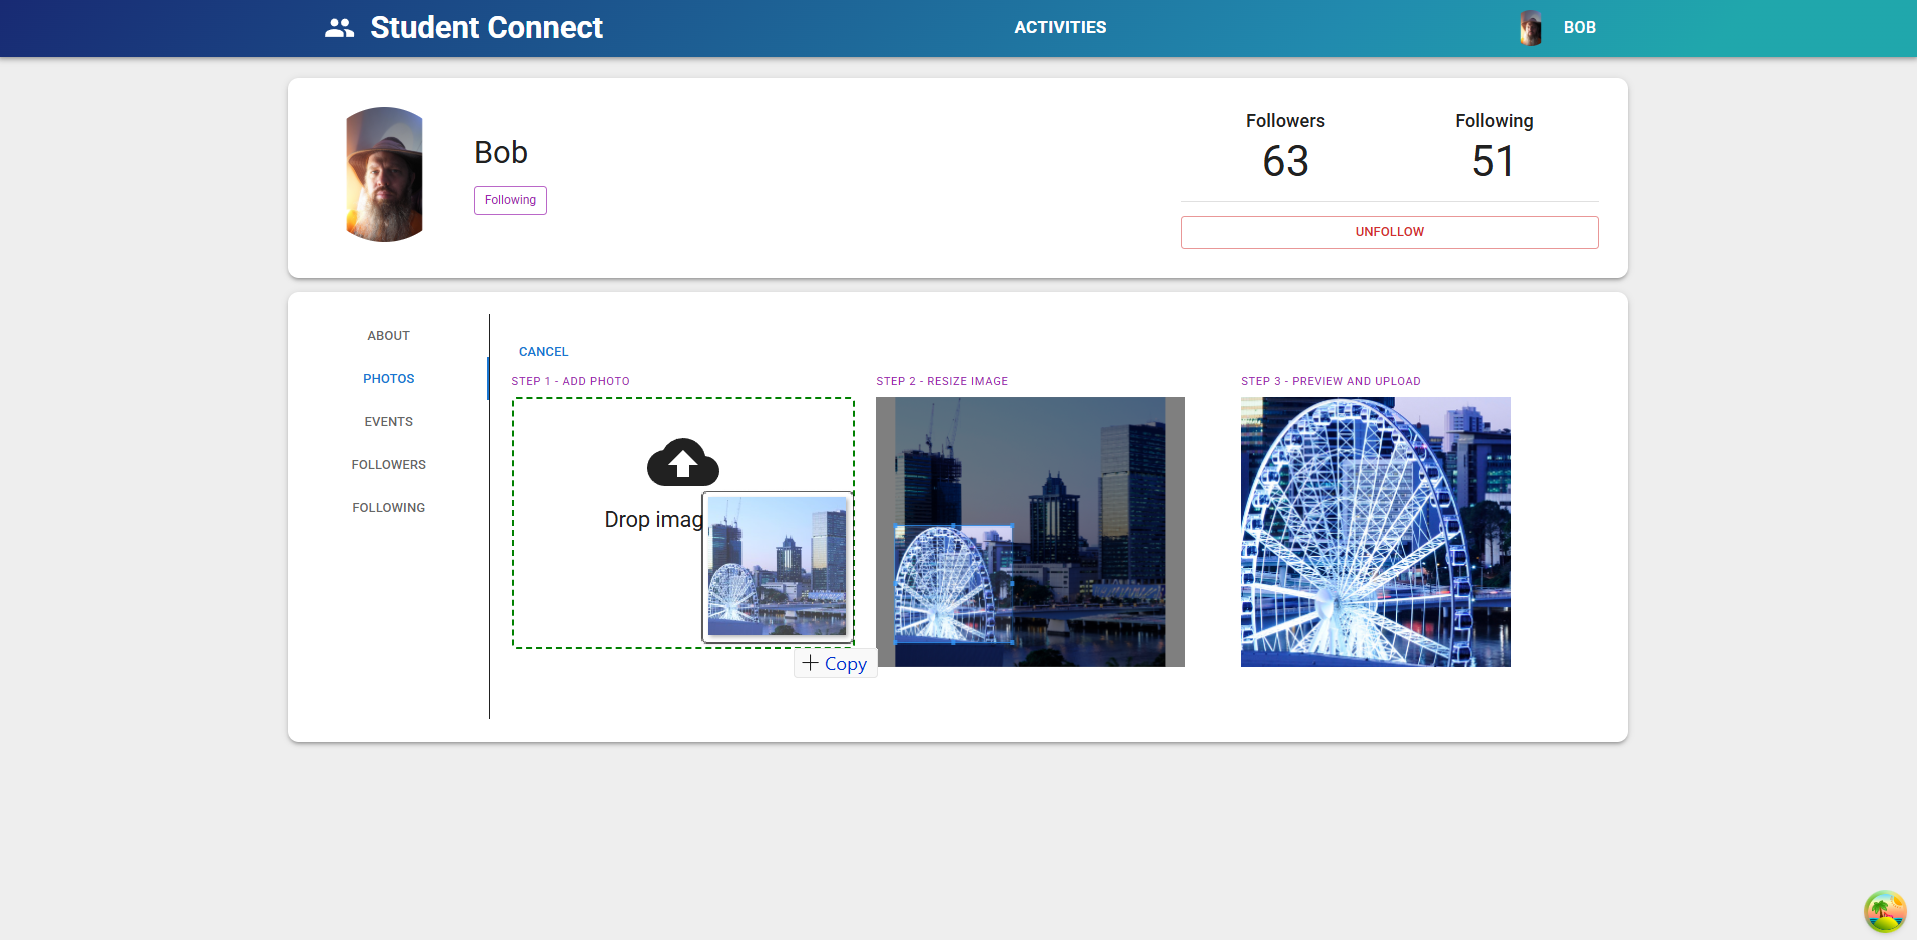
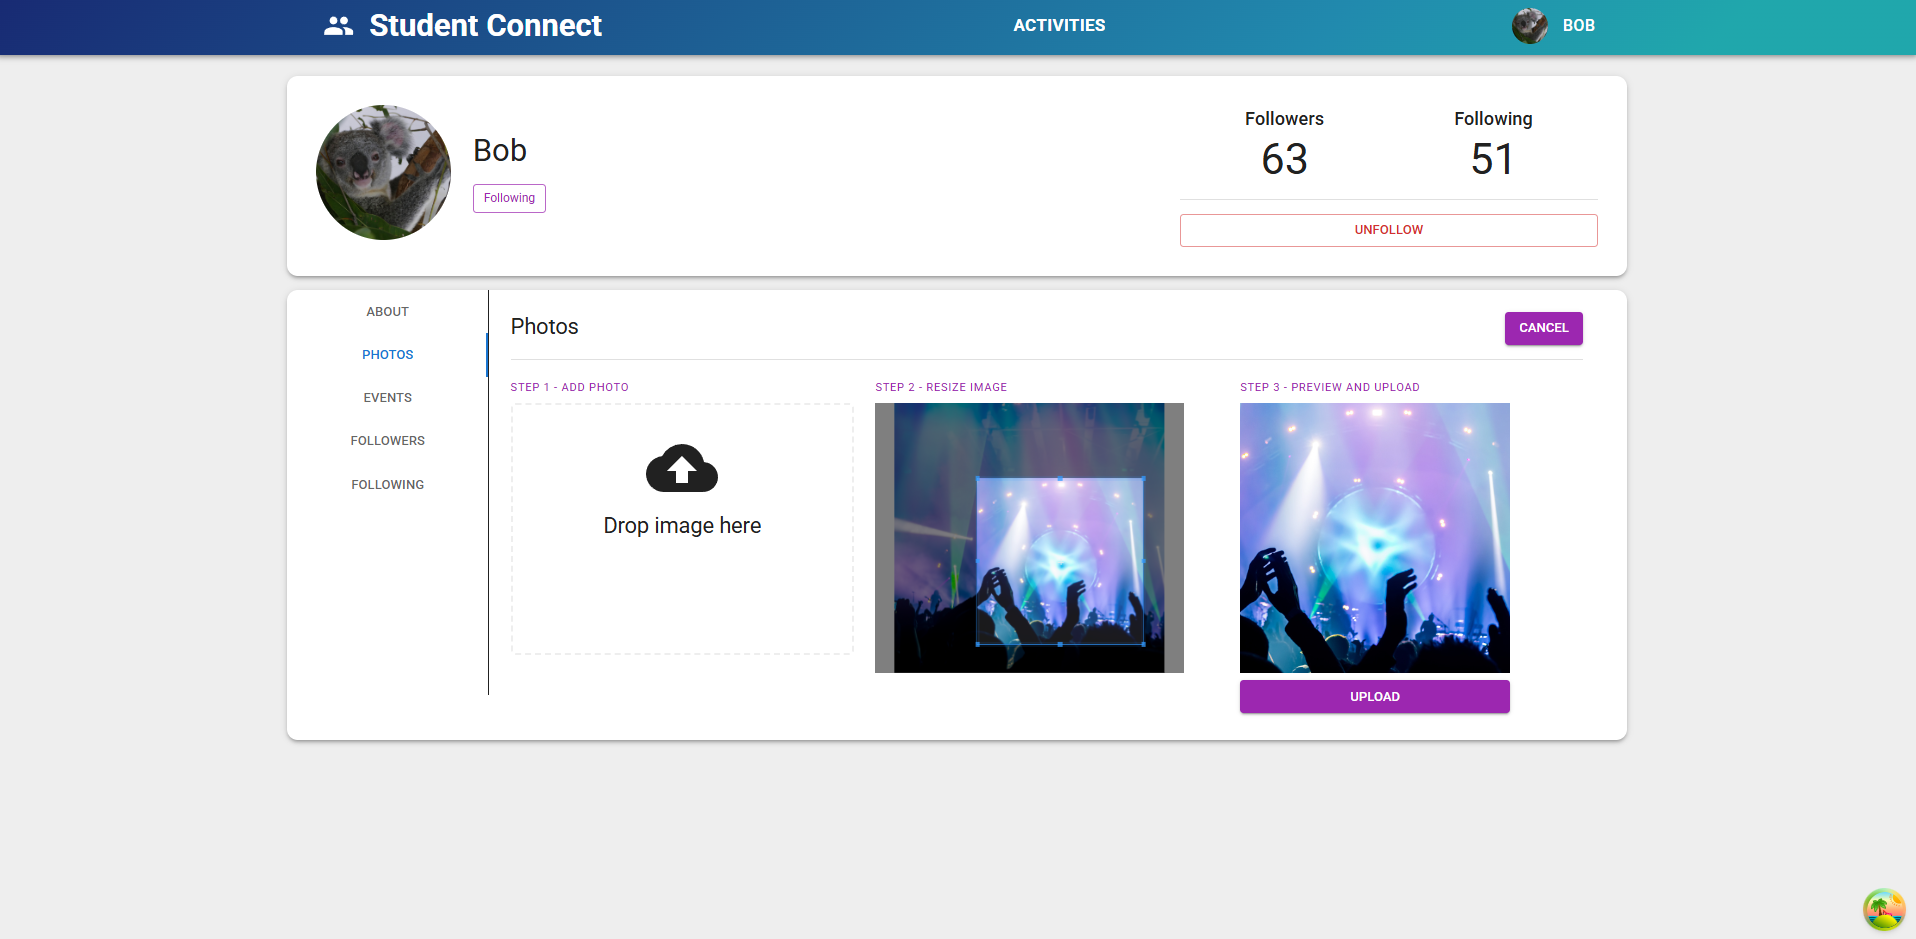
Update ReadMe

diff --git a/README.md b/README.md
@@ -51,13 +51,13 @@ Here are some screenshots from the app:
 
 <table>
   <tr align="center">
-    <td><p>Profile Page</p><img src="AppPics/ProfilePage.png" width="100%"></td>
+    <td><p>Profile Page with Set Profile Picture and Delete features</p><img src="AppPics/ProfilePage.png" width="100%"></td>
   </tr>
 </table>
 
 <table>
   <tr align="center">
-    <td><p>Add/ Crop Photo in Profile Page using React Dropzone and Cropper</p><img src="AppPics/Dropzone_Cropper.png" width="100%"></td>
+    <td><p>Add/ Crop/ Upload Photo in Profile Page using React Dropzone and Cropper</p><img src="AppPics/Dropzone_Cropper.png" width="100%"></td>
   </tr>
 </table>
 
